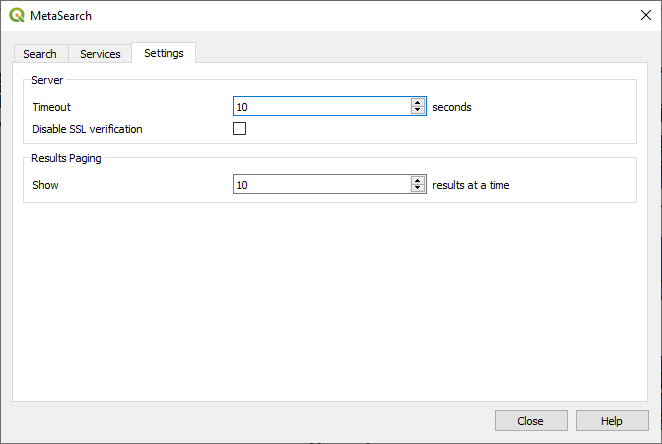
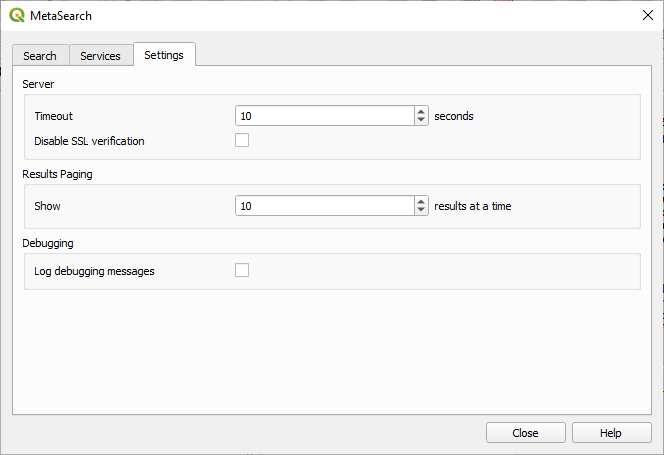
[MetaSearch] Log debugging messages

diff --git a/docs/user_manual/plugins/core_plugins/plugins_metasearch.rst b/docs/user_manual/plugins/core_plugins/plugins_metasearch.rst
@@ -209,6 +209,8 @@ You can fine tune MetaSearch with the following :guilabel:`Settings`:
   verification.
 * :guilabel:`Results paging`: when searching metadata catalogs, the
   number of results to show per page. Default value is 10.
+* :guilabel:`Log debugging messages`: option to enable the logging of
+  debugging messages in the :ref:`log_message_panel`.
 
 Catalog Server Errors
 ---------------------
